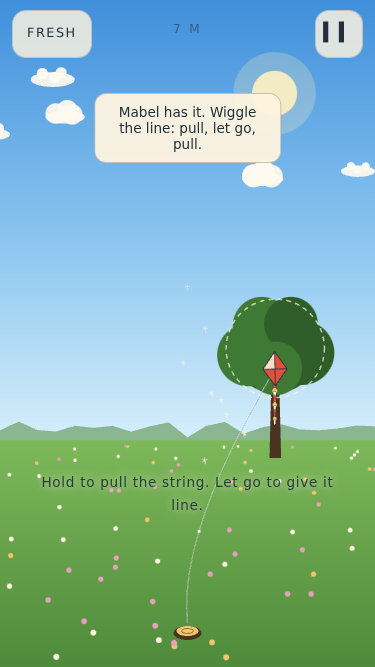
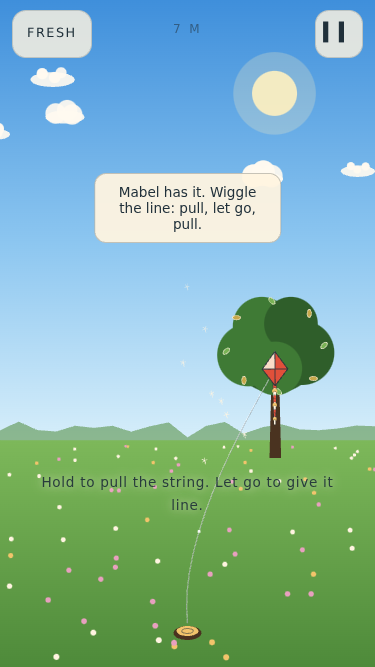
Updraft P2: the landing flourish, Mabel's own mark, the toast off the sun
After a clean landing or a tumble the sim keeps the tail moving for 1.4 s in a
ground breeze with the grass as a floor, so it lays out beside the kite instead
of hanging under it; the kite lies flat (a clean one nose along the lay, a
tumble flops over); a soft chord or a low thud; the end screen waits for the
settle. sim.js suite settle (5 assertions, 76 in all) watched to fail on
SETTLE_S=0. The snag ring is now eight loosened leaves drifting round the
crown. The toast moved from 14 to 26 percent, clear of the sun. Stamp
20260906e.

Claude-Session: https://claude.ai/code/session_01CohA1CK6e5eCWUdrKWPpuM

diff --git a/satellites/updraft/index.html b/satellites/updraft/index.html
@@ -9,9 +9,9 @@
 <meta name="apple-mobile-web-app-capable" content="yes">
 <meta name="apple-mobile-web-app-status-bar-style" content="black-translucent">
 <meta name="apple-mobile-web-app-title" content="UPDRAFT">
-<link rel="manifest" href="./manifest.webmanifest?v=20260906d">
-<link rel="apple-touch-icon" href="./icon-192.png?v=20260906d">
-<link rel="icon" href="./icon-192.png?v=20260906d">
+<link rel="manifest" href="./manifest.webmanifest?v=20260906e">
+<link rel="apple-touch-icon" href="./icon-192.png?v=20260906e">
+<link rel="icon" href="./icon-192.png?v=20260906e">
 <link rel="canonical" href="https://lucidwinds.com/satellites/updraft/">
 <style>
 /*  UPDRAFT
@@ -103,11 +103,11 @@ html,body{margin:0;padding:0;height:100%;background:#8CC6F0;color:var(--ink);
 .toggles .btn{margin:7px 0}
 .stat{font-size:.8rem;color:var(--cream);letter-spacing:.13em;margin:5px 0;text-transform:uppercase}
 #endWord{font-size:1.4rem;letter-spacing:.2em;color:var(--cream);margin:6px 0 2px}
-#toast{position:fixed;left:50%;top:14%;transform:translateX(-50%);
+#toast{position:fixed;left:50%;top:26%;transform:translateX(-50%);
   background:rgba(255,244,224,.94);border:1px solid rgba(32,48,58,.25);
   color:var(--ink);padding:10px 16px;border-radius:12px;font-size:.85rem;
   z-index:40;opacity:0;pointer-events:none;transition:opacity 180ms ease-out;
-  max-width:84%;text-align:center}
+  max-width:90%;text-align:center}
 #toast.on{opacity:1}
 #testPanel{position:absolute;inset:0;z-index:60;background:#04070a;color:#cfe;
   overflow:auto;font:12px/1.55 ui-monospace,SFMono-Regular,Menlo,monospace;
@@ -115,7 +115,7 @@ html,body{margin:0;padding:0;height:100%;background:#8CC6F0;color:var(--ink);
 #testPanel.on{display:block}
 @media (prefers-reduced-motion:reduce){*{transition-duration:1ms!important}}
 </style>
-<script src="/music-unlocks.js?v=20260906d" defer></script>
+<script src="/music-unlocks.js?v=20260906e" defer></script>
 </head>
 <body>
 <h1 style="position:absolute;width:1px;height:1px;margin:-1px;padding:0;overflow:hidden;clip:rect(0 0 0 0);clip-path:inset(50%);white-space:nowrap;border:0">UPDRAFT</h1>
@@ -236,6 +236,7 @@ var CONFIG = Object.freeze({
   LEAN_TURN_RATE: 2.2, WINDOW_FLOOR: 0, EL_MAX: 1.0,
   SNAP_TENSION: 1.0, SNAP_HOLD_S: 0.4, STRAIN_AT: 0.75,
   TAIL_PTS: 16, TAIL_SEG: 0.35, TAIL_AIRF: 0.94, TAIL_DRAG: 15, TAIL_CRACK_V: 12,
+  SETTLE_S: 1.4, SETTLE_WIND: 5, /* the landing flourish: the tail lays out over the grass for this long, in this much ground wind */
   APPARENT_MASS: 0.4, LINE_MASS: 0.002, MOTION_CD: 1.2, MOTION_V0: 2, RHO: 1.2, G: 9.81,
   MABEL_X: 22, MABEL_Z: 26, MABEL_R: 7, MABEL_SNAG_H: 12, MABEL_WIGGLE: 3, MABEL_WIGGLE_S: 4, MABEL_GRACE_S: 3,
   CAM_LEAD: 0.35, GROUND_Y: 0,
@@ -360,7 +361,12 @@ function setInput(st, hold, lean) {
 }
 function step(st, dt) {
   var C = CONFIG, k = st.kite;
-  if (st.ended) { st.t += dt; return st; }
+  if (st.ended) {
+    st.t += dt;
+    /* the landing flourish: for SETTLE_S after a clean landing or a tumble the tail keeps moving in a ground breeze and lays out over the grass; a snap freezes at once */
+    if (st.ended !== 'snap' && st.t - st.endT <= C.SETTLE_S) { st.vAz = 0; st.vEl = 0; stepTail(st, dt, C.SETTLE_WIND * (st.az < 0 ? -1 : 1), 0); }
+    return st;
+  }
   var p = kitePos(st);
   var w = windAt(st.wind, p.x, p.y, p.z, st.t);
   st.gust = gustAt(st.wind, p.x, p.z, st.t);
@@ -535,6 +541,7 @@ function stepTail(st, dt, windAz, windEl) {
     p.w = p.pw + vw + (C.TAIL_DRAG * (awW * dt - vw) - C.G) * dt * dt;
   }
   pts[0].u = 0; pts[0].w = -0.3; pts[0].pu = 0; pts[0].pw = -0.3;
+  if (st.ended) { for (i = 1; i < n; i++) { if (pts[i].w < -0.34) { pts[i].w = -0.34; pts[i].pw = pts[i].w; } } } /* the grass is a floor once the kite is down */
   var pass;
   for (pass = 0; pass < 2; pass++) {
     for (i = 1; i < n; i++) {
@@ -663,6 +670,7 @@ var TEST = {
     this.runSuite('launch', suiteLaunch);
     this.runSuite('loop', suiteLoop);
     this.runSuite('descend', suiteDescend);
+    this.runSuite('settle', suiteSettle);
     this.runSuite('stall', suiteStall);
     this.runSuite('dive', suiteDive);
     this.runSuite('park', suitePark);
@@ -780,6 +788,22 @@ function suiteDescend(T) {
   T.assert('a release at 40 m in Gentle lands within 60 s', st.ended && tLand <= 60, 'ended ' + st.ended + ' at ' + tLand);
   T.assert('and it descended steadily', rises === 0, rises + ' rises of over a metre');
   T.assert('and softly', st.ended === 'clean' || st.ended === 'tumble');
+}
+function suiteSettle(T) {
+  /* the landing flourish: after a landing the tail lays out over the grass instead of hanging under the kite, the kite stays down, and the tail is still a chain */
+  var st = newFlight({ mood: 'gentle', seed: 1, wind: CLEAN, L: 50, el: 0.9273, launched: true });
+  runScript(st, [{ t: 0, hold: false, lean: 0 }], 60);
+  var tip0 = st.tail.pts[15], w0 = tip0.w, n = 0, dt = 1 / CONFIG.SIM_HZ, worst = 0, i;
+  T.assert('the glide landed', !!st.ended && st.ended !== 'snap', 'ended ' + st.ended);
+  while (st.t - st.endT < 1.5) {
+    step(st, dt); n++;
+    var ls = tailLengths(st); for (i = 0; i < ls.length; i++) worst = Math.max(worst, Math.abs(ls[i] - CONFIG.TAIL_SEG) / CONFIG.TAIL_SEG);
+  }
+  var tip = st.tail.pts[15];
+  T.assert('within 1.5 s the tail lies along the grass, the tip 2 m or more to the side', Math.abs(tip.u) >= 2, 'tip u ' + tip.u.toFixed(2) + ' (was hanging at w ' + w0.toFixed(2) + ')');
+  T.assert('and not under it', tip.w >= -0.5, 'tip w ' + tip.w.toFixed(2));
+  T.assert('the tail is still a chain within 1 percent through the settle', worst <= 0.01, 'worst ' + (worst * 100).toFixed(2) + ' percent');
+  T.assert('and the kite stays down, the flight still ended', st.ended && st.el === 0 && altitude(st) === 0, 'el ' + st.el + ' ended ' + st.ended);
 }
 function suiteStall(T) {
   /* at the side of the window (az 1.2) the Diamond is below stall speed even in Fresh;
@@ -1059,8 +1083,16 @@ function drawMabel(st) {
     g.beginPath(); g.arc(mx + blobs[i][0] * r, crownY + blobs[i][1] * r, blobs[i][2] * r, 0, TAU); g.fill();
   }
   if (st && st.snagged) {
-    g.strokeStyle = 'rgba(255,244,224,0.7)'; g.lineWidth = 1.5; g.setLineDash([4, 5]);
-    g.beginPath(); g.arc(mx, crownY, r * 1.1, 0, TAU); g.stroke(); g.setLineDash([]);
+    /* Mabel's own mark: a ring of leaves shaken loose, drifting round the crown while she holds the kite */
+    var t = G.motion ? st.t : 0, j;
+    for (j = 0; j < 8; j++) {
+      var a = t * 0.5 + j * TAU / 8, rr = r * (1.12 + 0.06 * Math.sin(t * 2 + j));
+      var lx = mx + Math.cos(a) * rr, ly = crownY + Math.sin(a) * rr * 0.9;
+      g.save(); g.translate(lx, ly); g.rotate(a + t * 1.7); g.scale(1, 0.55);
+      g.fillStyle = j % 2 ? '#7AB356' : '#C8A84B'; g.beginPath(); g.arc(0, 0, Math.max(3, r * 0.09), 0, TAU); g.fill();
+      g.strokeStyle = 'rgba(255,244,224,0.8)'; g.lineWidth = 1; g.stroke();
+      g.restore();
+    }
   }
 }
 function drawLine(st, ks) {
@@ -1110,7 +1142,13 @@ function drawTail(st, ks) {
   }
 }
 function drawKite(st, ks) {
-  var g = CTX, s = ks.size, h = st.heading;
+  var g = CTX, s = ks.size, h = st.heading, lay = 0;
+  if (st.ended && st.ended !== 'snap') {
+    lay = Math.min(1, (st.t - st.endT) / 0.8);
+    var hTo = st.ended === 'clean' ? (st.az < 0 ? -1 : 1) * Math.PI / 2 : st.heading + 2.6;
+    h = h + (hTo - h) * lay;
+    g.save(); g.translate(ks.x, ks.y); g.scale(1, 1 - 0.62 * lay); g.translate(-ks.x, -ks.y);
+  }
   var nx = Math.sin(h), ny = -Math.cos(h);
   var wob = G.motion ? (1 - Math.min(1, st.tN)) * Math.sin(st.t * 37) * s * 0.06 : 0;
   var nose = [ks.x + nx * s, ks.y + ny * s], tail = [ks.x - nx * s * 0.95, ks.y - ny * s * 0.95];
@@ -1122,6 +1160,7 @@ function drawKite(st, ks) {
   g.strokeStyle = 'rgba(32,48,58,0.8)'; g.lineWidth = Math.max(1, s * 0.06);
   g.beginPath(); g.moveTo(nose[0], nose[1]); g.lineTo(right[0], right[1]); g.lineTo(tail[0], tail[1]); g.lineTo(left[0], left[1]); g.closePath(); g.stroke();
   g.beginPath(); g.moveTo(nose[0], nose[1]); g.lineTo(tail[0], tail[1]); g.moveTo(left[0], left[1]); g.lineTo(right[0], right[1]); g.stroke();
+  if (lay) g.restore();
 }
 function render() {
   var st = G.st;
@@ -1197,10 +1236,33 @@ var AUDIO = (function () {
       s.start(); s.stop(ctx.currentTime + 0.12);
     } catch (e) {}
   }
+  function chord() {
+    if (!ctx || !on) return;
+    try {
+      var t = ctx.currentTime, i, hz = [330, 415.3, 495];
+      for (i = 0; i < hz.length; i++) {
+        var o = ctx.createOscillator(), gn = ctx.createGain();
+        o.type = 'sine'; o.frequency.value = hz[i]; gn.gain.value = 0;
+        gn.gain.setTargetAtTime(0.05, t + i * 0.06, 0.08); gn.gain.setTargetAtTime(0, t + 0.6 + i * 0.06, 0.4);
+        o.connect(gn); gn.connect(ctx.destination); o.start(t); o.stop(t + 2.4);
+      }
+    } catch (e) {}
+  }
+  function thud() {
+    if (!ctx || !on) return;
+    try {
+      var s = ctx.createBufferSource(); s.buffer = noiseBuf;
+      var gn = ctx.createGain(); gn.gain.value = 0.3;
+      var f = ctx.createBiquadFilter(); f.type = 'lowpass'; f.frequency.value = 180;
+      s.connect(f); f.connect(gn); gn.connect(ctx.destination);
+      gn.gain.setTargetAtTime(0, ctx.currentTime + 0.02, 0.07);
+      s.start(); s.stop(ctx.currentTime + 0.3);
+    } catch (e) {}
+  }
   return {
     setOn: function (v) { on = !!v; if (on) { ensure(); resume(); } else if (ctx) { bedGain.gain.value = 0; whineGain.gain.value = 0; } },
     unlock: function () { if (on) { ensure(); resume(); } },
-    tick: tick, crack: crack, levelsFor: levelsFor, state: state
+    tick: tick, crack: crack, chord: chord, thud: thud, levelsFor: levelsFor, state: state
   };
 })();
 function haptic(ms) { if (!G.haptics) return; try { if (navigator.vibrate) navigator.vibrate(ms); } catch (e) {} }
@@ -1260,7 +1322,7 @@ var SAVE = {
 };
 
 /* ========================= 13. BOOT ========================= */
-var STAMP = '20260906d';
+var STAMP = '20260906e';
 function showScreen(name) {
   var ids = { title: 'scrTitle', how: 'scrHow', pause: 'scrPause', mood: 'scrMood', kites: 'scrKites', journal: 'scrJournal', end: 'scrEnd' }, k;
   for (k in ids) $(ids[k]).classList.toggle('on', k === name);
@@ -1311,6 +1373,8 @@ function simTick(dtReal) {
       var e = st.events[i];
       if (e.e === 'crack') { AUDIO.crack(); haptic(10); }
       if (e.e === 'stamp') { showStamp(e.name); haptic(15); }
+      if (e.e === 'clean') { AUDIO.chord(); haptic(20); }
+      if (e.e === 'tumble') { AUDIO.thud(); haptic(25); }
       if (e.e === 'snag') toast('Mabel has it. Wiggle the line: pull, let go, pull.');
       if (e.e === 'freed') toast('Free. Mabel lets go this time.');
       if (e.e === 'launched' && !G.hintShown.lean) { hint('Slide your thumb to lean.'); G.hintShown.lean = 1; }
@@ -1319,7 +1383,7 @@ function simTick(dtReal) {
     if (!st.strain) st.strainBuzzed = false;
     G.acc -= dt; n++;
   }
-  if (st.ended && !st.endShown) { st.endShown = true; setTimeout(function () { if (G.st === st) endFlight(st); }, 700); }
+  if (st.ended && !st.endShown) { st.endShown = true; setTimeout(function () { if (G.st === st) endFlight(st); }, st.ended === 'snap' ? 700 : Math.round(CONFIG.SETTLE_S * 1000) + 200); }
   $('altTag').textContent = Math.round(altitude(st)) + ' M';
 }
 function frame(ts) {
@@ -1423,7 +1487,7 @@ function wire() {
   tapOn('btnHowOk', function () { showScreen('title'); });
   tapOn('btnPause', function () { if (G.st) setInput(G.st, false, 0); G.ptr = null; showScreen('pause'); });
   tapOn('btnResume', function () { showScreen('play'); });
-  tapOn('btnLand', function () { if (G.st) { G.st.ended = G.st.onGround ? 'clean' : 'tumble'; G.st.endT = G.st.t; } showScreen('play'); });
+  tapOn('btnLand', function () { if (G.st) { G.st.ended = G.st.onGround ? 'clean' : 'tumble'; G.st.endT = G.st.t; G.st.events.push({ t: G.st.t, e: G.st.ended }); } showScreen('play'); });
   tapOn('btnMoodPick', function () { openMood('pause'); });
   tapOn('btnMood', function () { openMood('play'); });
   ['Gentle', 'Fresh', 'Blustery'].forEach(function (n) { tapOn('mood' + n, function () { pickMood(n.toLowerCase()); }); });

diff --git a/satellites/updraft/sw.js b/satellites/updraft/sw.js
@@ -12,7 +12,7 @@
    Bump SHELL_VERSION on every deploy, AND the ?v= on the registration in
    index.html in lockstep (they are both the STAMP, and tools/lint.mjs asserts it) — this host edge-pins bare sw.js URLs for 7 days. */
 
-const SHELL_VERSION = "updraft-shell-20260906d";
+const SHELL_VERSION = "updraft-shell-20260906e";
 const SFX_CACHE     = "updraft-unused-v1"; // no recorded audio: every sound is synthesised
 const NAV_TIMEOUT_MS = 8000;
 
